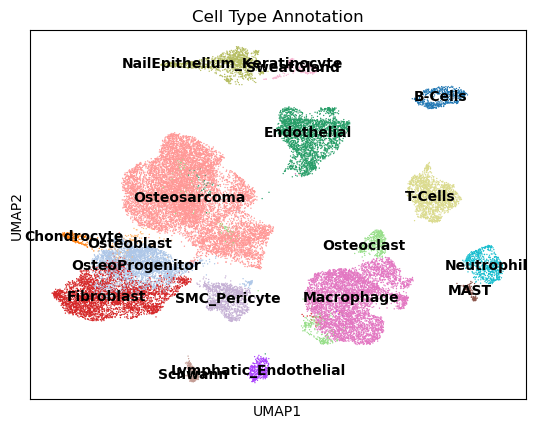
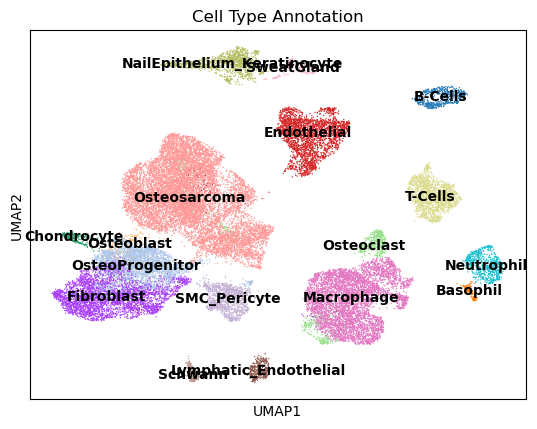
Rename MAST cells

diff --git a/README.md b/README.md
@@ -227,10 +227,9 @@ marker_genes = {
 
 We used the above marker genes to annotate our celltypes as follows:
 
-![](figures/umap_axt_celltype.png?v=7)
+![](figures/umap_axt_celltype.png?v=8)
 
-![](figures/umap_axt_celltypeON.png?v=7)
-
+![](figures/umap_axt_celltypeON.png?v=8)
 
 ## Some stats for samples and cells 
 
